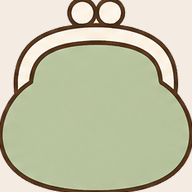
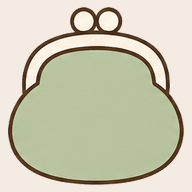
Add files via upload

Changed region(s): [[0.0, 0.0, 1.0, 1.0]]

diff --git a/service-worker.js b/service-worker.js
@@ -2,12 +2,14 @@
 // 方針：HTML本体は常に最新を優先（ネットワーク優先）
 //       アイコン等の静的アセットはキャッシュ優先（速度優先）
 
-const CACHE_NAME = 'tatekae-cho-cache-v4';
+const CACHE_NAME = 'tatekae-cho-cache-v5';
 const STATIC_ASSETS = [
   './icon-192.png',
   './icon-512.png',
   './icon-180.png',
   './icon-32.png',
+  './icon-192-maskable.png',
+  './icon-512-maskable.png',
   './manifest.json'
 ];
 
